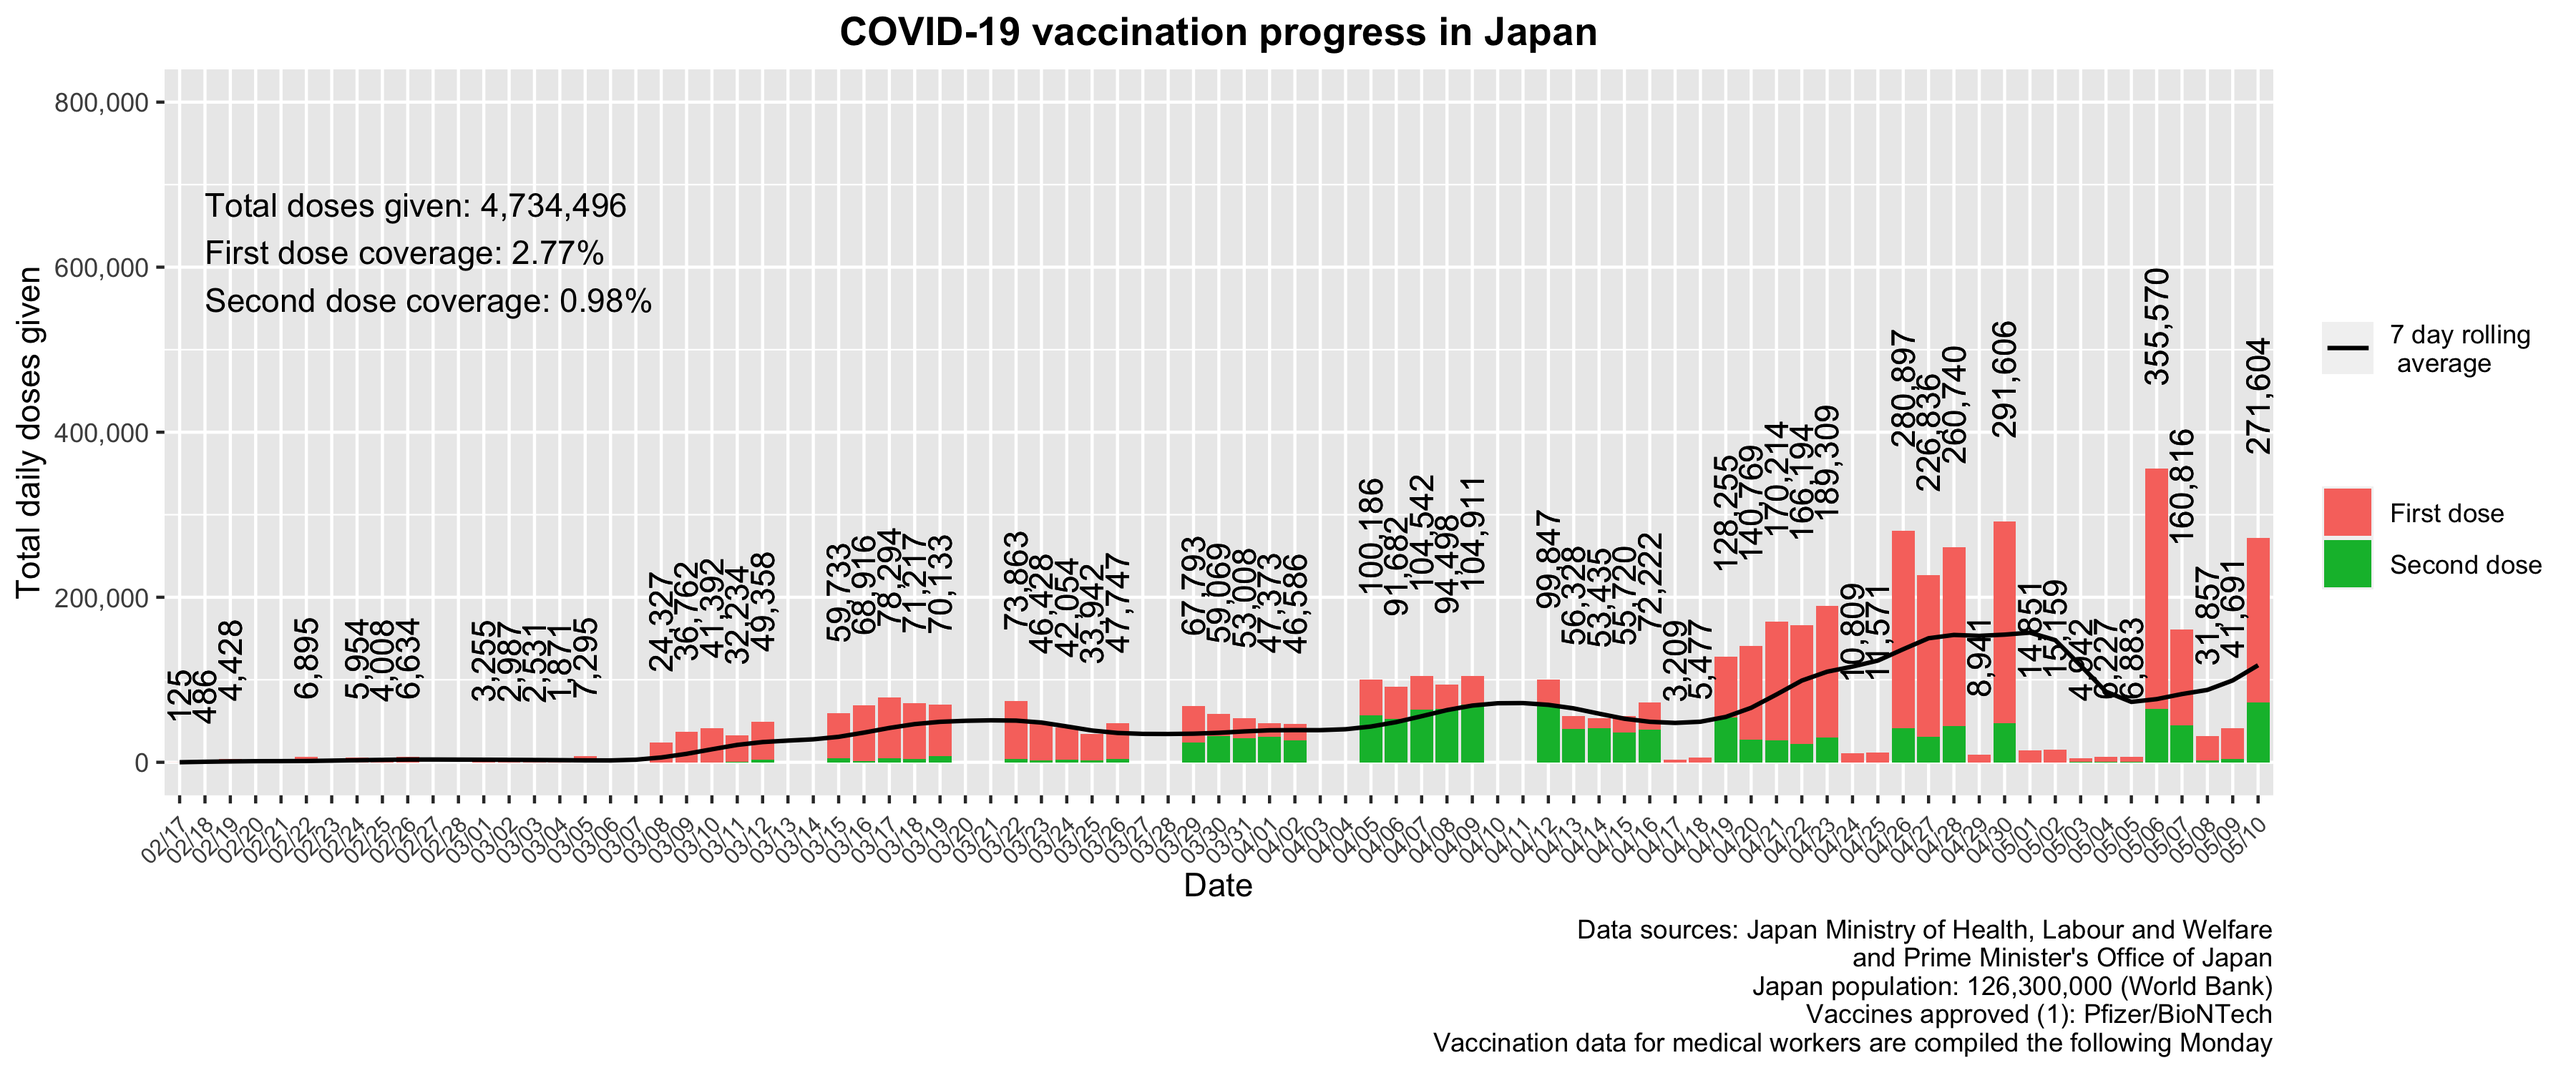
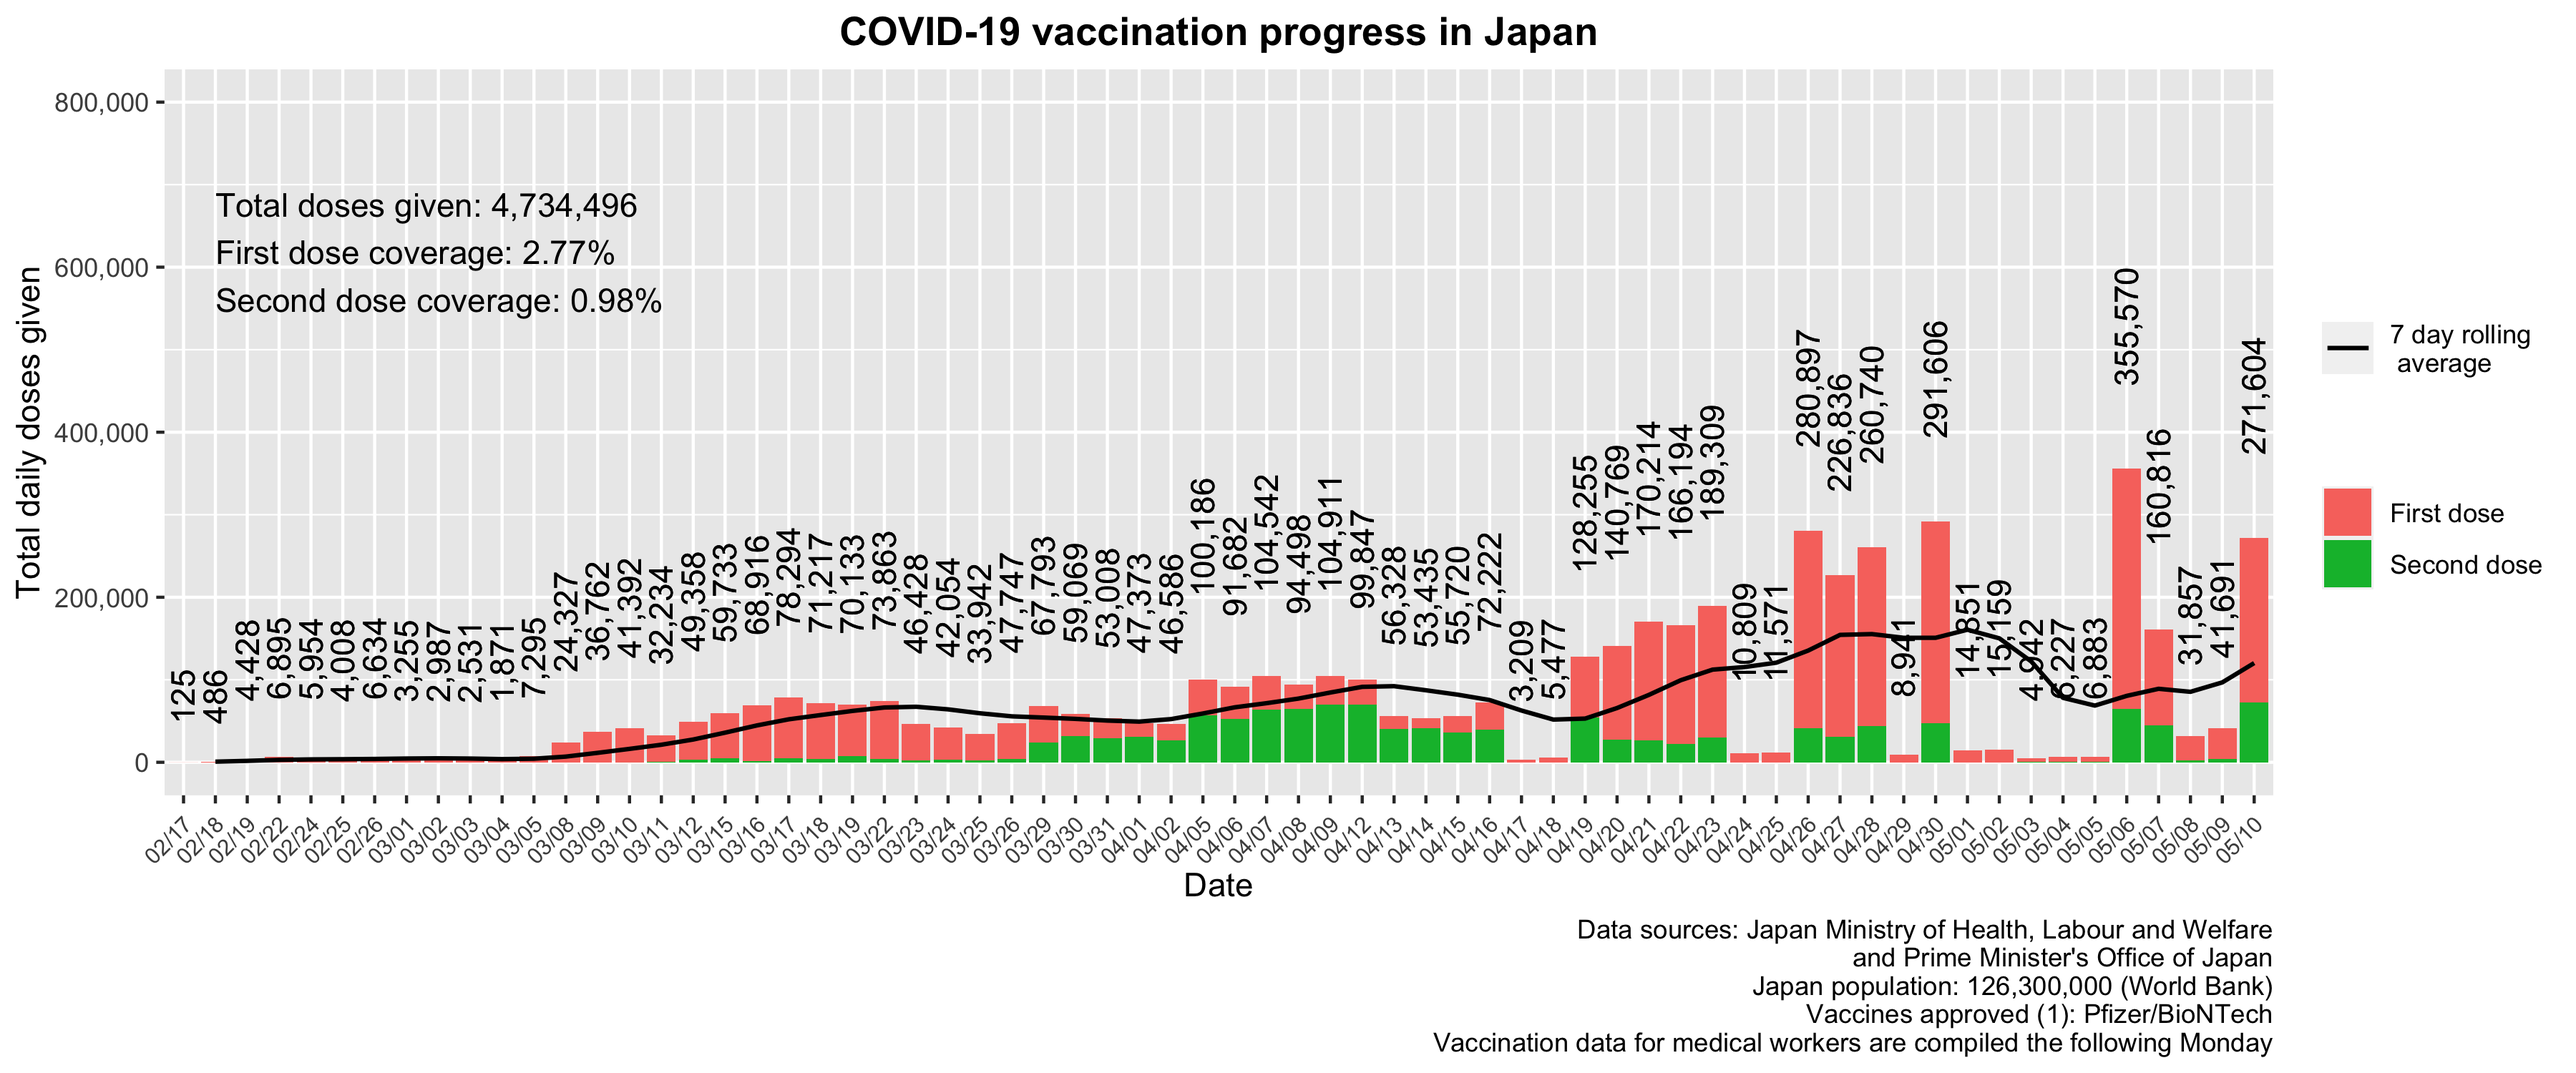
Updated 2021-05-11

Changed region(s): [[0.0622, 0.0613, 0.9022, 0.7973]]

diff --git a/japan_vaccine_data.py b/japan_vaccine_data.py
@@ -77,9 +77,9 @@ for i in range(delta.days):
 	new_format = datetime.strftime(day, '%m/%d')
 	date_list += [new_format]
 
-for day in date_list:
-	if day not in coordinated_vaccine_data:
-		coordinated_vaccine_data[day] = [0, 0, 0, " "]
+# for day in date_list:
+# 	if day not in coordinated_vaccine_data:
+# 		coordinated_vaccine_data[day] = [0, 0, 0, " "]
 
 graph_data_file = open("japan_vaccine_data_for_graph.txt", "w")
 vaccine_data_summary_file = open("/Volumes/Macintosh HD/Users/cianglenfield/Desktop/japan_vaccine_data/japan_vaccine_data_summaries.txt", "w")
@@ -93,10 +93,11 @@ second_dose_total = 0
 
 
 for day in date_list:
-	graph_data_file.write("%s\t%s\t%s\t%s\t%s\n" % (day, coordinated_vaccine_data[day][0], coordinated_vaccine_data[day][1], coordinated_vaccine_data[day][2], coordinated_vaccine_data[day][3]))
-	overall_total += coordinated_vaccine_data[day][0]
-	first_dose_total += coordinated_vaccine_data[day][1]
-	second_dose_total += coordinated_vaccine_data[day][2]
+	if day in coordinated_vaccine_data:
+		graph_data_file.write("%s\t%s\t%s\t%s\t%s\n" % (day, coordinated_vaccine_data[day][0], coordinated_vaccine_data[day][1], coordinated_vaccine_data[day][2], coordinated_vaccine_data[day][3]))
+		overall_total += coordinated_vaccine_data[day][0]
+		first_dose_total += coordinated_vaccine_data[day][1]
+		second_dose_total += coordinated_vaccine_data[day][2]
 
 
 overall_population_coverage = round((overall_total/(japanese_population*2))*100, 2)
